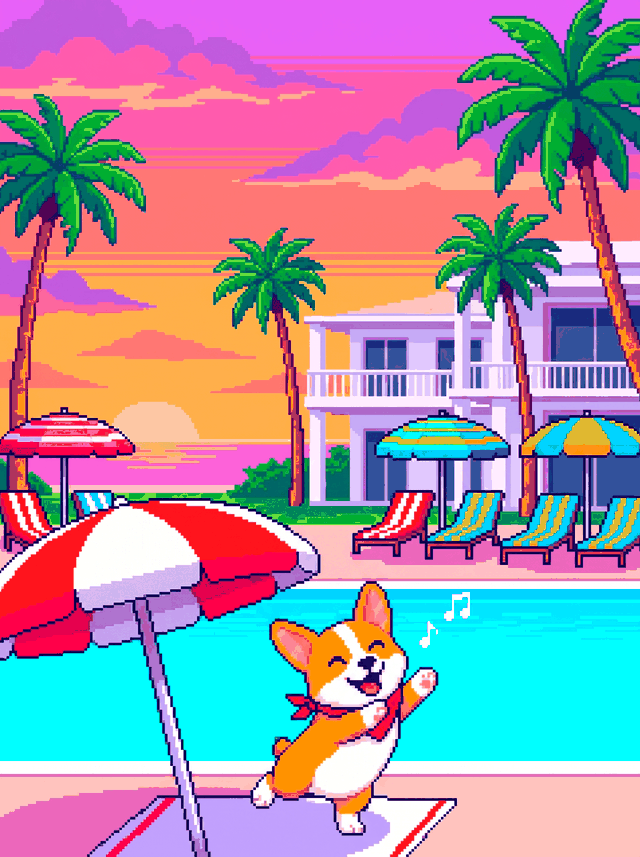
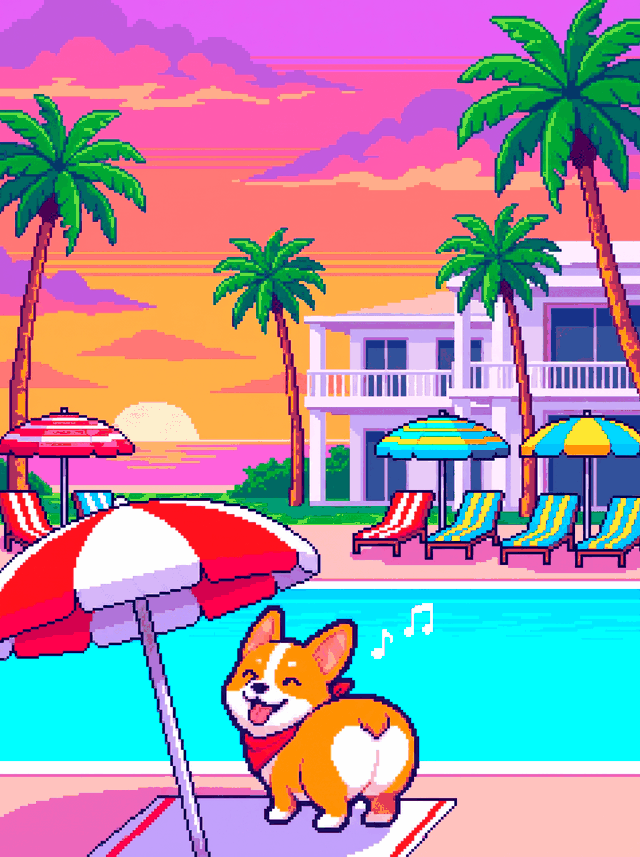
피버 춤을 캐릭터마다 다른 막춤으로 교체 (쥐춤·트위스트·문워크·브레이크·훌라·디스코)

diff --git a/index.html b/index.html
@@ -19,7 +19,7 @@
   html { background: #6fc3f0; }
   body {
     min-height: 100vh;
-    background: #8ecbe8 url('assets/bg-title.png?v=5') center top / cover no-repeat fixed;
+    background: #8ecbe8 url('assets/bg-title.png?v=6') center top / cover no-repeat fixed;
     color: #17263f;
     font-family: Galmuri, -apple-system, "Apple SD Gothic Neo", "Malgun Gothic", monospace;
     -webkit-user-select: none; user-select: none;
@@ -176,9 +176,9 @@
   <p id="tips">마우스나 손가락을 좌우로 움직여 피하세요</p>
 </section>
 
-<script>window.ASSET_V = '5';</script>
-<script src="bgm.js?v=5"></script>
-<script src="chars.js?v=5"></script>
-<script src="game.js?v=5"></script>
+<script>window.ASSET_V = '6';</script>
+<script src="bgm.js?v=6"></script>
+<script src="chars.js?v=6"></script>
+<script src="game.js?v=6"></script>
 </body>
 </html>
